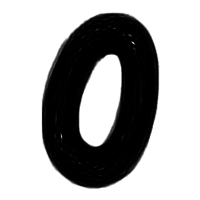
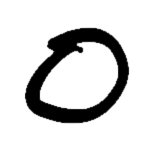
New graphics :)

Changed region(s): [[0.1538, 0.051, 0.8462, 0.9682]]

diff --git a/TicTacSlide.py b/TicTacSlide.py
@@ -1,8 +1,6 @@
 # Game and solver for TicTacSlide
 # Basic pygame code modified from https://techvidvan.com/tutorials/python-game-project-tic-tac-toe/
 
-from doctest import OutputChecker
-from turtle import end_fill
 import numpy as np
 import pygame
 import time
@@ -46,14 +44,14 @@ class Game():
         pygame.display.set_caption("Tic Tac Toe")
 
         # Loading the images
-        opening = pygame.image.load(os.path.join(__location__, 'tic tac opening.png'))
+        opening = pygame.image.load(os.path.join(__location__, 'tic tac opening.jpg'))
         x_img = pygame.image.load(os.path.join(__location__, 'x.png'))
         o_img = pygame.image.load(os.path.join(__location__, 'o.png'))
 
         # Resizing images
-        self.x_img = pygame.transform.scale(x_img, (self.IMG,self.IMG))
-        self.o_img = pygame.transform.scale(o_img, (self.IMG,self.IMG))
-        self.opening = pygame.transform.scale(opening, (self.D, self.D))
+        self.x_img = pygame.transform.smoothscale(x_img, (self.IMG,self.IMG))
+        self.o_img = pygame.transform.smoothscale(o_img, (self.IMG,self.IMG))
+        self.opening = pygame.transform.smoothscale(opening, (self.D, self.D))
         
         # Run the load screen
         self.load_screen()
